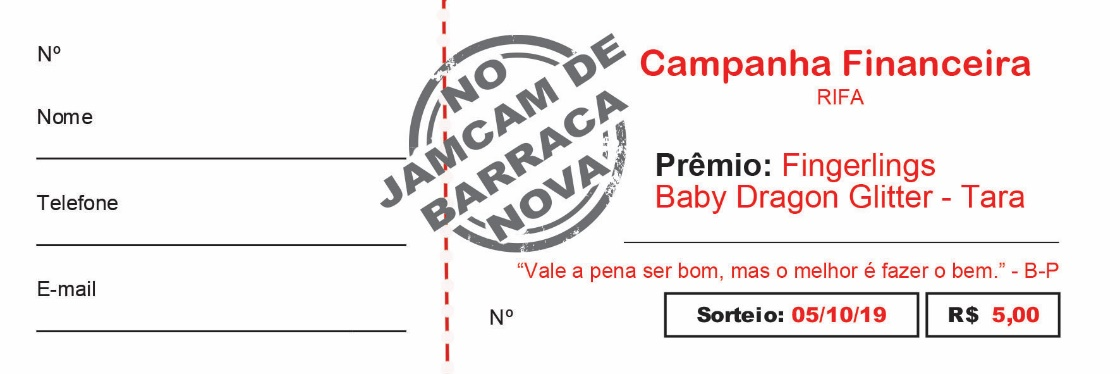
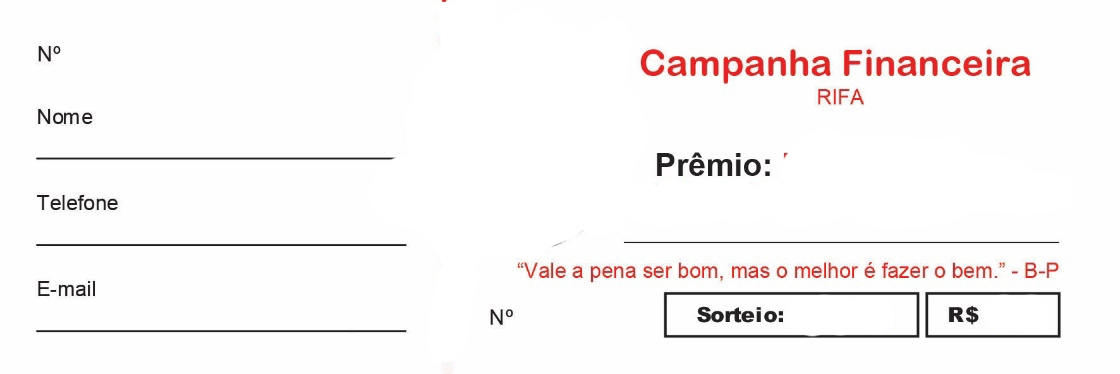
Imagem trocada e textos de data e prêmio inicializados

diff --git a/im_teste.py b/im_teste.py
@@ -2,15 +2,15 @@ from PIL import Image
 from PIL import ImageFont
 from PIL import ImageDraw
 
+NUMERO_DE_COPIAS = 1
+NOME_DA_IMAGEM_ORIGINAL = "rifa.png"
+NOME_DAS_IMAGENS_DE_SAIDA = "rifa"
 ARQUIVO_DA_FONTE = "Best in class.otf"
-TAMANHO_DA_FONTE = 24
 COR_DA_FONTE = "red"
 FORMATO = "png"
 NUMERO_DE_DIGITOS = "3"
 
-NUMERO_DE_COPIAS = 1
-NOME_DA_IMAGEM_ORIGINAL = "rifa.png"
-NOME_DAS_IMAGENS_DE_SAIDA = "rifa"
+TAMANHO_DA_FONTE = 24
 
 POSICAO_DA_NUMERACAO_1 = (80,40)
 POSICAO_DA_NUMERACAO_2 = (530,302)
@@ -25,10 +25,10 @@ MENSAGEM_DO_VALOR = "R$1.400,00"
 POSICAO_DO_VALOR = ( 1000,POSICAO_DA_DATA[1] )
 
 class texto:
-	def __init__(self, mensagem):
+	def __init__(self, mensagem, posicao):
 		self.mensagem = mensagem
+		self.posicao = posicao
 	
-	posicao = (0,0)
 	arquivo_da_fonte = ARQUIVO_DA_FONTE
 	tamanho = TAMANHO_DA_FONTE
 	cor_da_fonte = COR_DA_FONTE
@@ -41,6 +41,9 @@ class texto:
 
 image = Image.open(NOME_DA_IMAGEM_ORIGINAL)
 
+premio = texto(MENSAGEM_DO_PREMIO, POSICAO_DO_PREMIO)
+data = texto( MENSAGEM_DA_DATA, POSICAO_DA_DATA)
+
 for i in range(1, NUMERO_DE_COPIAS + 1):
 	copy = image.copy()
 
@@ -48,11 +51,9 @@ for i in range(1, NUMERO_DE_COPIAS + 1):
 	numeracao = ("%." + NUMERO_DE_DIGITOS + "i") % i
 	text = str(numeracao)
 
-	numeracao_1 = texto(text)
-	numeracao_1.posicao = POSICAO_DA_NUMERACAO_1
+	numeracao_1 = texto(text, POSICAO_DA_NUMERACAO_1)
 
-	numeracao_2 = texto(text)
-	numeracao_2.posicao = POSICAO_DA_NUMERACAO_2
+	numeracao_2 = texto(text, POSICAO_DA_NUMERACAO_2)
 
 	draw.text(*numeracao_1.get_parametros_do_draw() )
 	draw.text(*numeracao_2.get_parametros_do_draw() )
